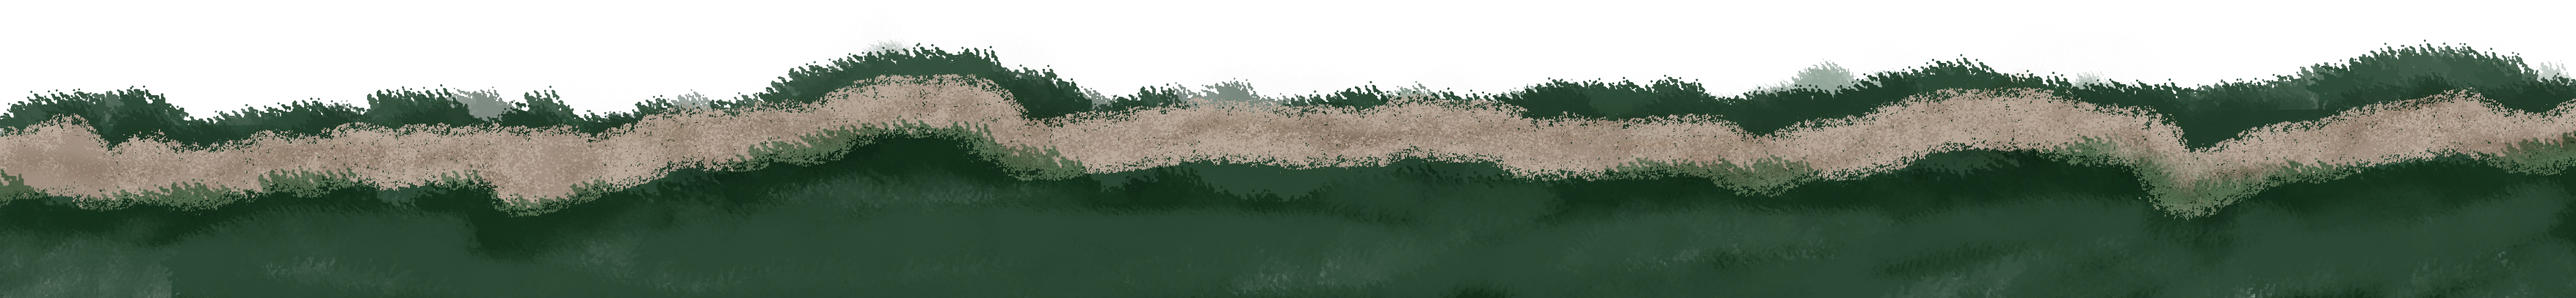
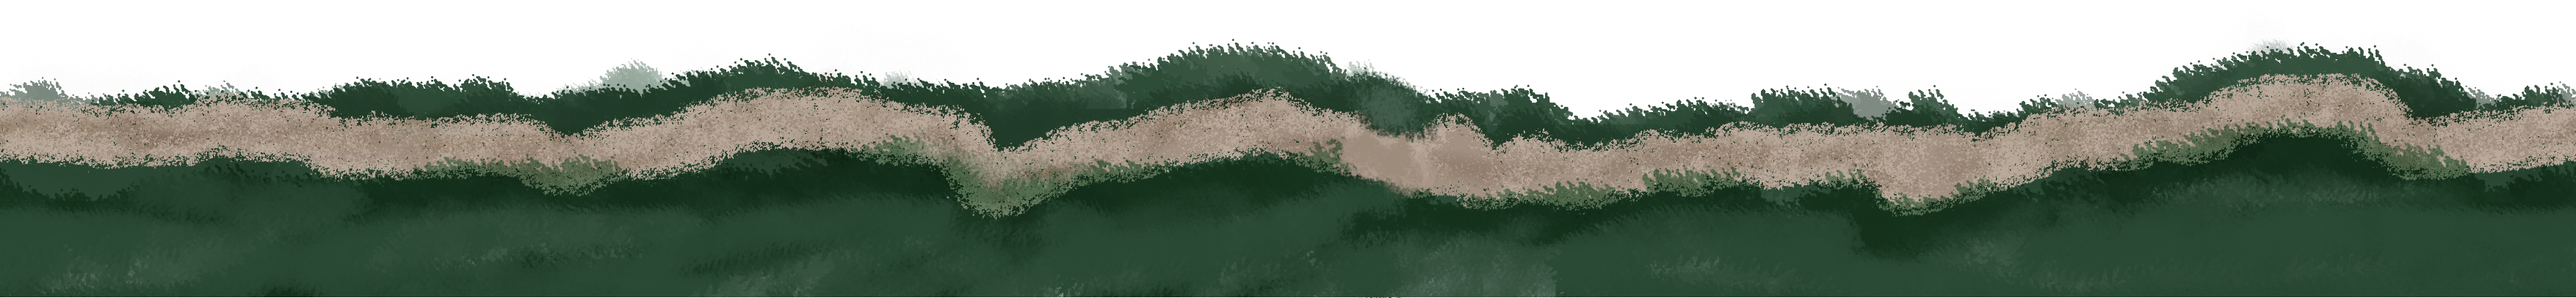
Make grass seamless

diff --git a/Game/Backgrounds.cs b/Game/Backgrounds.cs
@@ -20,10 +20,11 @@ namespace GameProject {
             var maxDepth = 0;
 
             for (int i = _furthest + 1; i <= 0; i++) {
-                for (int j = 0; j < mapLength; j += (Assets.Ground.Width - 100) * groundScale) {
-                    maxDepth++;
-                    Quadtree<BackgroundObjects>.Add(new BackgroundObjects(j, 0, i, groundScale, Assets.Ground, false, maxDepth));
-                }
+                //for (int j = 0; j < mapLength; j += (Assets.Ground.Width - 100) * groundScale) {
+                //    maxDepth++;
+                    _infiniteObjects.Add(new InfiniteObjects(Assets.Ground, i, 1, new Vector2(0, 0), 1));
+                    //Quadtree<BackgroundObjects>.Add(new BackgroundObjects(j, 0, i, groundScale, Assets.Ground, false, maxDepth));
+                //}
             }
 
             for (int i = 0; i < 130; i++) {
